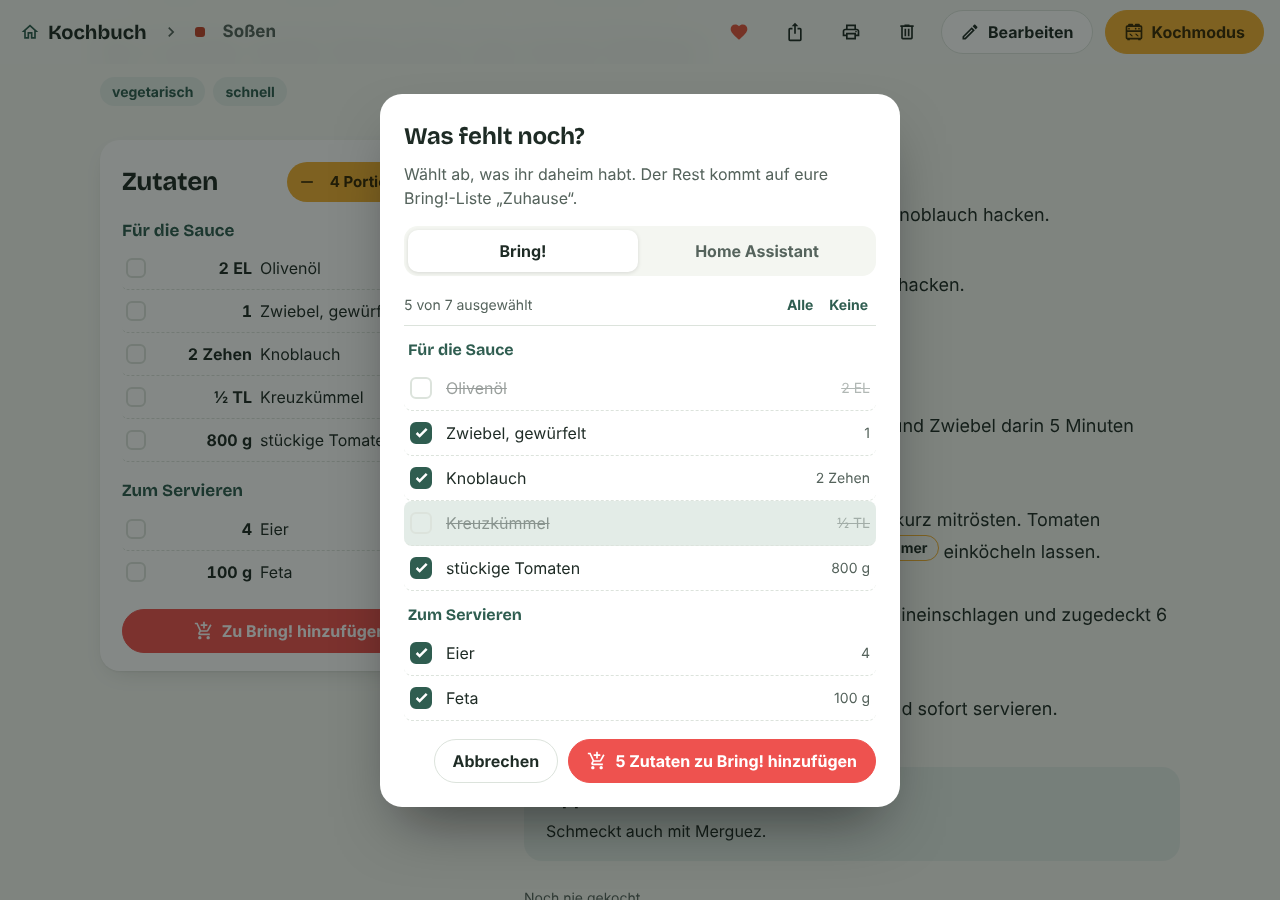
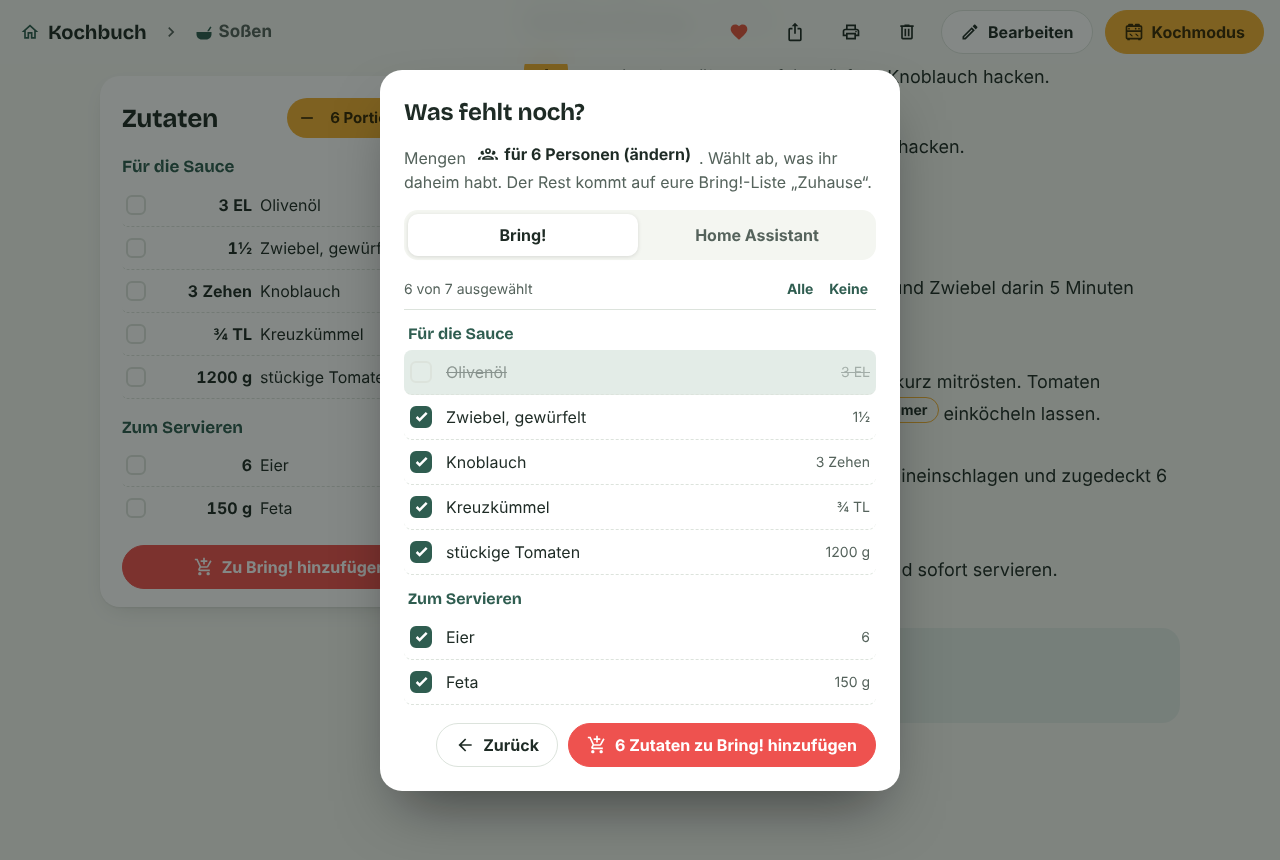
Kochbuch 1.6.0: Personenzahl vor dem Einkaufen, Kategorie-Symbole
- Zu Bring!/Einkaufsliste: erst Personenzahl wählen, dann umgerechnete Zutaten abwählen
- Kategorie-Titel und Pfad zeigen das Kategorie-Symbol statt eines Farbpunkts

Claude-Session: https://claude.ai/code/session_01DF6XX5kd56oiDmByM1R25Q

diff --git a/custom_components/kochbuch/frontend/kochbuch-panel.js b/custom_components/kochbuch/frontend/kochbuch-panel.js
@@ -1,7 +1,7 @@
 /* Kochbuch – Panel für Home Assistant
  * https://github.com/domiundergroun/Kochrezepte
  */
-const KB_VERSION = "1.5.0";
+const KB_VERSION = "1.6.0";
 
 /* ------------------------------------------------------------------ Hilfen */
 const esc = (v) =>
@@ -608,6 +608,28 @@ code { background: var(--kb-paper); padding: 1px 5px; border-radius: 5px; font-s
 .shop-item:not(.on) .nm, .shop-item:not(.on) .sp { opacity: .45; text-decoration: line-through; }
 .shop-item .sp { color: var(--kb-ink-soft); font-size: 14px; text-align: right; }
 
+.crumb-icon { --mdc-icon-size: 18px; margin-right: 6px; flex: none; }
+.crumbs button.crumb-cat { gap: 0; }
+.crumbs .here .crumb-icon { margin-right: 6px; }
+.cat-title { display: inline-flex !important; align-items: center; gap: 16px; }
+.cat-badge { width: 1.15em; height: 1.15em; border-radius: 0.3em; background: var(--c); color: #fff; display: inline-flex; align-items: center; justify-content: center; flex: none; }
+.cat-badge ha-icon { --mdc-icon-size: 0.7em; width: 0.7em; height: 0.7em; }
+/* Einkaufen: Personenzahl */
+.serv-pick { display: flex; flex-direction: column; align-items: center; gap: 18px; padding: 10px 0 4px; }
+.serv-big { display: flex; align-items: center; gap: 22px; }
+.serv-big button { width: 60px; height: 60px; border-radius: 999px; border: 2px solid var(--kb-line); background: var(--kb-surface); display: inline-flex; align-items: center; justify-content: center; }
+.serv-big button:hover { border-color: var(--kb-herb); }
+.serv-big button ha-icon { --mdc-icon-size: 28px; }
+.serv-num { text-align: center; min-width: 120px; }
+.serv-num b { display: block; font-family: var(--kb-display); font-size: 64px; font-weight: 800; line-height: 1; color: var(--kb-ink); }
+.serv-num small { color: var(--kb-ink-soft); font-size: 16px; }
+.serv-quick { display: flex; gap: 8px; flex-wrap: wrap; justify-content: center; }
+.serv-quick button { min-width: 48px; height: 40px; border-radius: 999px; border: 1.5px solid var(--kb-line); background: var(--kb-paper); font-weight: 700; }
+.serv-quick button.on { background: var(--kb-herb); border-color: var(--kb-herb); color: #fff; }
+:host([dark]) .serv-quick button.on { color: #0E1A15; }
+.serv-note { color: var(--kb-ink-soft); font-size: 14px; margin: 0; text-align: center; }
+.shop-for { display: inline-flex; align-items: center; gap: 6px; font-weight: 700; color: var(--kb-ink); }
+
 /* Dialoge */
 .scrim {
   position: fixed; inset: 0; z-index: 20; background: rgba(10,18,14,.5); display: flex; align-items: center; justify-content: center; padding: 20px;
@@ -1021,7 +1043,7 @@ class KochbuchPanel extends HTMLElement {
     const c = this._cat(this.filter);
     const parent = this._parentOf(c);
     const sep = `<span class="sep"><ha-icon icon="mdi:chevron-right"></ha-icon></span>`;
-    const crumbs = this._crumbs(`${parent ? `${sep}<button class="crumb-cat" data-action="cat" data-id="${esc(parent.id)}"><span class="title-dot" style="background:${esc(parent.color)}"></span>${esc(parent.name)}</button>` : ""}${sep}<span class="here">${c ? `<span class="title-dot" style="background:${esc(c.color)}"></span>` : ""}${esc(this._filterName(this.filter))}</span>`);
+    const crumbs = this._crumbs(`${parent ? `${sep}<button class="crumb-cat" data-action="cat" data-id="${esc(parent.id)}"><ha-icon class="crumb-icon" icon="${esc(parent.icon)}" style="color:${esc(parent.color)}"></ha-icon>${esc(parent.name)}</button>` : ""}${sep}<span class="here">${c ? `<ha-icon class="crumb-icon" icon="${esc(c.icon)}" style="color:${esc(c.color)}"></ha-icon>` : ""}${esc(this._filterName(this.filter))}</span>`);
     const subs = c && !parent ? this._subs(c.id) : [];
     const subTiles = subs.length ? `<section class="sub-shelf" aria-label="Unterkategorien">${subs.map((x) => {
       const n = this.recipes.filter((r) => r.category === x.id).length;
@@ -1034,7 +1056,7 @@ class KochbuchPanel extends HTMLElement {
       <button class="icon-btn" data-action="settings" title="Einstellungen" aria-label="Einstellungen"><ha-icon icon="mdi:cog-outline"></ha-icon></button>`);
     const empty = !this._filtered().length && !this.search.trim();
     return `${header}<main>
-      <h1 class="cat-title" style="--c:${esc(c ? c.color : "var(--kb-ink)")}">${esc(this._filterName(this.filter))}</h1>
+      <h1 class="cat-title" style="--c:${esc(c ? c.color : "var(--kb-ink)")}">${c ? `<span class="cat-badge"><ha-icon icon="${esc(c.icon)}"></ha-icon></span>` : ""}${esc(this._filterName(this.filter))}</h1>
       ${subTiles}
       ${subs.length && !empty ? `<h2 class="sec-title small">Alle Rezepte in ${esc(c.name)}</h2>` : ""}
       ${empty ? "" : this._toolbar(c && !this.search.trim() ? `<button class="btn small" data-action="export-cat" data-id="${esc(c.id)}" title="Kategorie exportieren" aria-label="Kategorie exportieren"><ha-icon icon="mdi:export-variant"></ha-icon><span class="lbl">Kategorie exportieren</span></button>` : "")}
@@ -1097,7 +1119,7 @@ class KochbuchPanel extends HTMLElement {
     const cookedN = (r.cooked || []).length;
 
     const header = this._top("top-detail", `
-      ${this._crumbs([this._parentOf(c), c].filter(Boolean).map((x) => `<span class="sep"><ha-icon icon="mdi:chevron-right"></ha-icon></span><button class="crumb-cat" data-action="cat" data-id="${esc(x.id)}"><span class="title-dot" style="background:${esc(x.color)}"></span>${esc(x.name)}</button>`).join(""))}
+      ${this._crumbs([this._parentOf(c), c].filter(Boolean).map((x) => `<span class="sep"><ha-icon icon="mdi:chevron-right"></ha-icon></span><button class="crumb-cat" data-action="cat" data-id="${esc(x.id)}"><ha-icon class="crumb-icon" icon="${esc(x.icon)}" style="color:${esc(x.color)}"></ha-icon>${esc(x.name)}</button>`).join(""))}
       <div class="spacer"></div>
       <button class="icon-btn" data-action="fav" data-id="${esc(r.id)}" aria-label="Favorit" style="color:${r.favorite ? "var(--kb-tomato)" : "inherit"}"><ha-icon icon="${r.favorite ? "mdi:heart" : "mdi:heart-outline"}"></ha-icon></button>
       <button class="icon-btn" data-action="export-recipe" data-id="${esc(r.id)}" aria-label="Rezept exportieren" title="Rezept exportieren"><ha-icon icon="mdi:export-variant"></ha-icon></button>
@@ -1703,17 +1725,36 @@ class KochbuchPanel extends HTMLElement {
         <textarea class="inp" id="paste-text" placeholder="Für den Teig:\n250 g Mehl\n2 Eier\n1 Prise Salz"></textarea>
         <div class="row"><button class="btn" data-action="dlg-close">Abbrechen</button><button class="btn primary" data-action="paste-go"><ha-icon icon="mdi:check"></ha-icon>Übernehmen</button></div>`;
     } else if (d.type === "shop") {
-      const both = this._bringReady() && this._todoTarget();
-      const n = d.items.filter((i) => i.name && i.on).length;
-      const total = d.items.filter((i) => i.name).length;
-      const label = d.target === "bring" ? "zu Bring! hinzufügen" : "auf die Einkaufsliste";
-      inner = `<h2>Was fehlt noch?</h2><p>Wählt ab, was ihr daheim habt. Der Rest kommt ${d.target === "bring" ? `auf eure Bring!-Liste${this.settings.bring?.list_name ? ` „${esc(this.settings.bring.list_name)}“` : ""}` : "auf die Einkaufsliste"}.</p>
-        ${both ? `<div class="seg"><button class="${d.target === "bring" ? "on" : ""}" data-action="shop-target" data-t="bring">Bring!</button><button class="${d.target === "todo" ? "on" : ""}" data-action="shop-target" data-t="todo">Home Assistant</button></div>` : ""}
-        <div class="shop-head"><span>${n} von ${total} ausgewählt</span><span><button class="linkish" data-action="shop-all" data-on="1">Alle</button><button class="linkish" data-action="shop-all" data-on="0">Keine</button></span></div>
-        <ul class="shop-list">${d.items.map((it, i) => it.group ? `<li class="shop-group">${esc(it.group)}</li>`
-          : `<li class="shop-item ${it.on ? "on" : ""}" data-action="shop-toggle" data-i="${i}" role="checkbox" aria-checked="${it.on}" tabindex="0"><span class="box">${it.on ? `<ha-icon icon="mdi:check-bold"></ha-icon>` : ""}</span><span class="nm">${esc(it.name)}</span><span class="sp">${esc(it.spec)}</span></li>`).join("")}</ul>
-        ${d.error ? `<p style="color:var(--kb-tomato);margin:10px 0 0">${esc(d.error)}</p>` : ""}
-        <div class="row"><button class="btn" data-action="dlg-close">Abbrechen</button><button class="btn ${d.target === "bring" ? "bring" : "primary"}" data-action="shop-go" ${n && !d.busy ? "" : "disabled"}>${d.busy ? `<span class="spin" style="width:18px;height:18px"></span>Wird gesendet` : `<ha-icon icon="mdi:cart-plus"></ha-icon>${n} ${n === 1 ? "Zutat" : "Zutaten"} ${label}`}</button></div>`;
+      const r = this._recipe(d.recipeId);
+      const word = this._servWord(r, d.servings);
+      if (d.step === "servings") {
+        const quick = [...new Set([1, 2, 3, 4, 6, 8, r.servings])].sort((a, b) => a - b);
+        inner = `<h2>Für wie viele ${/^Person/.test(word) ? "Personen" : esc(word)} kocht ihr?</h2>
+          <p>Die Mengen werden danach passend umgerechnet. Das Rezept ist für ${r.servings} ${esc(this._servWord(r, r.servings))} geschrieben.</p>
+          <div class="serv-pick">
+            <div class="serv-big">
+              <button data-action="shop-serv" data-d="-1" aria-label="Weniger" ${d.servings <= 1 ? "disabled" : ""}><ha-icon icon="mdi:minus"></ha-icon></button>
+              <div class="serv-num" aria-live="polite"><b>${d.servings}</b><small>${esc(word)}</small></div>
+              <button data-action="shop-serv" data-d="1" aria-label="Mehr"><ha-icon icon="mdi:plus"></ha-icon></button>
+            </div>
+            <div class="serv-quick">${quick.map((n) => `<button class="${n === d.servings ? "on" : ""}" data-action="shop-serv-set" data-n="${n}">${n}</button>`).join("")}</div>
+          </div>
+          <div class="row"><button class="btn" data-action="dlg-close">Abbrechen</button><button class="btn primary" data-action="shop-next"><ha-icon icon="mdi:arrow-right"></ha-icon>Weiter zu den Zutaten</button></div>`;
+      } else {
+        const items = this._shopItems(d);
+        const both = this._bringReady() && this._todoTarget();
+        const n = items.filter((i) => i.name && i.on).length;
+        const total = items.filter((i) => i.name).length;
+        const label = d.target === "bring" ? "zu Bring! hinzufügen" : "auf die Einkaufsliste";
+        inner = `<h2>Was fehlt noch?</h2>
+          <p>Mengen <button class="linkish shop-for" data-action="shop-back"><ha-icon icon="mdi:account-group-outline" style="--mdc-icon-size:18px"></ha-icon>für ${d.servings} ${esc(word)} (ändern)</button>. Wählt ab, was ihr daheim habt. Der Rest kommt ${d.target === "bring" ? `auf eure Bring!-Liste${this.settings.bring?.list_name ? ` „${esc(this.settings.bring.list_name)}“` : ""}` : "auf die Einkaufsliste"}.</p>
+          ${both ? `<div class="seg"><button class="${d.target === "bring" ? "on" : ""}" data-action="shop-target" data-t="bring">Bring!</button><button class="${d.target === "todo" ? "on" : ""}" data-action="shop-target" data-t="todo">Home Assistant</button></div>` : ""}
+          <div class="shop-head"><span>${n} von ${total} ausgewählt</span><span><button class="linkish" data-action="shop-all" data-on="1">Alle</button><button class="linkish" data-action="shop-all" data-on="0">Keine</button></span></div>
+          <ul class="shop-list">${items.map((it) => it.group ? `<li class="shop-group">${esc(it.group)}</li>`
+            : `<li class="shop-item ${it.on ? "on" : ""}" data-action="shop-toggle" data-i="${it.idx}" role="checkbox" aria-checked="${it.on}" tabindex="0"><span class="box">${it.on ? `<ha-icon icon="mdi:check-bold"></ha-icon>` : ""}</span><span class="nm">${esc(it.name)}</span><span class="sp">${esc(it.spec)}</span></li>`).join("")}</ul>
+          ${d.error ? `<p style="color:var(--kb-tomato);margin:10px 0 0">${esc(d.error)}</p>` : ""}
+          <div class="row"><button class="btn" data-action="shop-back"><ha-icon icon="mdi:arrow-left"></ha-icon>Zurück</button><button class="btn ${d.target === "bring" ? "bring" : "primary"}" data-action="shop-go" ${n && !d.busy ? "" : "disabled"}>${d.busy ? `<span class="spin" style="width:18px;height:18px"></span>Wird gesendet` : `<ha-icon icon="mdi:cart-plus"></ha-icon>${n} ${n === 1 ? "Zutat" : "Zutaten"} ${label}`}</button></div>`;
+      }
     } else if (d.type === "restore") {
       inner = `<h2>Sicherung einspielen</h2><p>„${esc(d.file.name)}“ (${(d.file.size / 1048576).toFixed(1).replace(".", ",")} MB). Sollen die Rezepte zu den vorhandenen dazukommen oder das Kochbuch komplett ersetzen? Beim Ersetzen gehen alle Rezepte verloren, die nicht in der Sicherung sind.</p>
         ${d.busy ? `<p style="display:flex;align-items:center;gap:10px"><span class="spin"></span>Wird eingespielt …</p>` : ""}
@@ -1759,21 +1800,33 @@ class KochbuchPanel extends HTMLElement {
 
   _openShop() {
     const r = this._recipe(this.view.id);
-    const factor = (this.servings || r.servings) / (r.servings || 1);
+    const target = this._bringReady() ? "bring" : "todo";
+    if (target === "todo" && !this._todoTarget()) { this._showToast("Keine Einkaufsliste eingerichtet – meldet euch in den Einstellungen bei Bring! an.", true); return; }
+    this.dialog = { type: "shop", step: "servings", recipeId: r.id, servings: this.servings || r.servings, off: new Set(this.checked), target };
+    this.render();
+  }
+
+  _shopItems(d) {
+    const r = this._recipe(d.recipeId);
+    if (!r) return [];
+    const factor = d.servings / (r.servings || 1);
     const items = [];
     (r.ingredients || []).forEach((i, idx) => {
       if (!i.name) { if (i.group) items.push({ group: i.group }); return; }
-      items.push({ idx, name: i.name, spec: [scaleAmount(i.amount, factor), i.unit].filter(Boolean).join(" "), on: !this.checked.has(idx) });
+      items.push({ idx, name: i.name, spec: [scaleAmount(i.amount, factor), i.unit].filter(Boolean).join(" "), on: !d.off.has(idx) });
     });
-    const target = this._bringReady() ? "bring" : "todo";
-    if (target === "todo" && !this._todoTarget()) { this._showToast("Keine Einkaufsliste eingerichtet – meldet euch in den Einstellungen bei Bring! an.", true); return; }
-    this.dialog = { type: "shop", items, target };
-    this.render();
+    return items;
+  }
+
+  _servWord(r, n) {
+    const u = (r.servings_unit || "Portionen").trim();
+    if (/^(portion|person)/i.test(u)) return n === 1 ? "Person" : "Personen";
+    return u;
   }
 
   async _sendShop() {
     const d = this.dialog;
-    const items = d.items.filter((i) => i.name && i.on);
+    const items = this._shopItems(d).filter((i) => i.name && i.on);
     if (!items.length) return;
     this.dialog = { ...d, busy: true }; this.render();
     try {
@@ -1891,8 +1944,12 @@ class KochbuchPanel extends HTMLElement {
       case "serv": { const r = this._recipe(this.view.id); this.servings = Math.max(1, (this.servings || r.servings) + Number(el.dataset.d)); this.render(); break; }
       case "check": { if (this.checked.has(idx)) this.checked.delete(idx); else this.checked.add(idx); this.render(); break; }
       case "shop": this._openShop(); break;
-      case "shop-toggle": { const it = this.dialog.items[Number(el.dataset.i)]; it.on = !it.on; this.render(); break; }
-      case "shop-all": { const on = el.dataset.on === "1"; this.dialog.items.forEach((i) => { if (i.name) i.on = on; }); this.render(); break; }
+      case "shop-toggle": { const k = Number(el.dataset.i); const off = this.dialog.off; if (off.has(k)) off.delete(k); else off.add(k); this._focusSel = `.shop-item[data-i="${k}"]`; this.render(); break; }
+      case "shop-all": { const d = this.dialog; d.off = el.dataset.on === "1" ? new Set() : new Set(this._shopItems(d).filter((i) => i.name).map((i) => i.idx)); this.render(); break; }
+      case "shop-serv": this.dialog.servings = Math.max(1, Math.min(100, this.dialog.servings + Number(el.dataset.d))); this.render(); break;
+      case "shop-serv-set": this.dialog.servings = Number(el.dataset.n); this.render(); break;
+      case "shop-next": this.dialog.step = "list"; this.servings = this.dialog.servings; this.render(); break;
+      case "shop-back": this.dialog.step = "servings"; this.dialog.error = null; this.render(); break;
       case "shop-target": this.dialog.target = el.dataset.t; this.render(); break;
       case "shop-go": this._sendShop(); break;
       case "fold": this._readSettings(); if (this.folds.has(id)) this.folds.delete(id); else this.folds.add(id); try { localStorage.setItem("kochbuch-folds", JSON.stringify([...this.folds])); } catch (e) { /* egal */ } this.render(); break;

diff --git a/custom_components/kochbuch/const.py b/custom_components/kochbuch/const.py
@@ -1,7 +1,7 @@
 """Konstanten für die Kochbuch-Integration."""
 
 DOMAIN = "kochbuch"
-VERSION = "1.5.0"
+VERSION = "1.6.0"
 
 STORAGE_KEY = "kochbuch.rezepte"
 STORAGE_VERSION = 1

diff --git a/README.md b/README.md
@@ -2,7 +2,7 @@
 
 Euer gemeinsames Rezeptbuch direkt in Home Assistant – mit eigener Seite in der Seitenleiste, Kochmodus fürs Küchentablet und Einkaufsliste per Knopfdruck.
 
-![Version](https://img.shields.io/badge/Version-1.5.0-2F5D50) ![HACS](https://img.shields.io/badge/HACS-Custom-F2B134)
+![Version](https://img.shields.io/badge/Version-1.6.0-2F5D50) ![HACS](https://img.shields.io/badge/HACS-Custom-F2B134)
 
 ## Was es kann
 
@@ -12,7 +12,7 @@ Euer gemeinsames Rezeptbuch direkt in Home Assistant – mit eigener Seite in de
 - **Kategorien verwalten** in den Einstellungen: Haupt- und Unterkategorien hinzufügen, umbenennen, Farbe und Symbol wählen, Reihenfolge ändern, löschen (Rezepte einer gelöschten Kategorie werden in eine andere verschoben)
 - **Rezeptlisten pro Kategorie** mit Suche (auch nach Zutaten) und Sortierung; oben führt „Kochbuch“ jederzeit zurück zur Startseite
 - **Portionen umrechnen** – alle Mengen passen sich automatisch an (inkl. ½, ¼ …)
-- **Bring!-Anbindung**: in den Einstellungen mit dem Bring!-Konto anmelden und die Liste wählen; im Rezept „Zu Bring! hinzufügen“ zeigt alle Zutaten, ihr wählt ab, was daheim ist, der Rest landet in Bring!
+- **Bring!-Anbindung**: in den Einstellungen mit dem Bring!-Konto anmelden und die Liste wählen; im Rezept „Zu Bring! hinzufügen“ fragt zuerst nach der Personenzahl, rechnet die Mengen um und zeigt alle Zutaten; ihr wählt ab, was daheim ist, der Rest landet in Bring!
 - **Einkaufsliste in Home Assistant** (To-do-Liste) als Alternative oder zusätzlich
 - **Zubereitung in zwei Teilen**: Vorbereitung (schneiden, abwiegen …) und Kochen, jeweils mit eigener Zeit
 - **Kochmodus**: ein Schritt pro Bildschirm in großer Schrift, Bildschirm bleibt an, Zutaten daneben
@@ -63,6 +63,7 @@ anzahl: 4          # bei favoriten/neu
 
 | Version | Änderungen |
 |---|---|
+| 1.6.0 | Einkaufen: erst Personenzahl wählen, dann umgerechnete Zutaten; Kategorie-Symbol statt Farbpunkt in Titel und Pfad |
 | 1.5.0 | Unterkategorien (eine Ebene); neue Standard-Kategorien Kuchen und Plätzchen unter Backen sowie Salat; Einstellungen zeigen Kategorien als Baum |
 | 1.4.1 | Handy: Kopfzeile der Rezeptansicht passt wieder aufs Display |
 | 1.4.0 | Bring!-Anbindung mit Anmeldung und Listenauswahl; Auswahl-Dialog vor dem Hinzufügen der Zutaten; Einstellungen in einklappbaren Bereichen |
